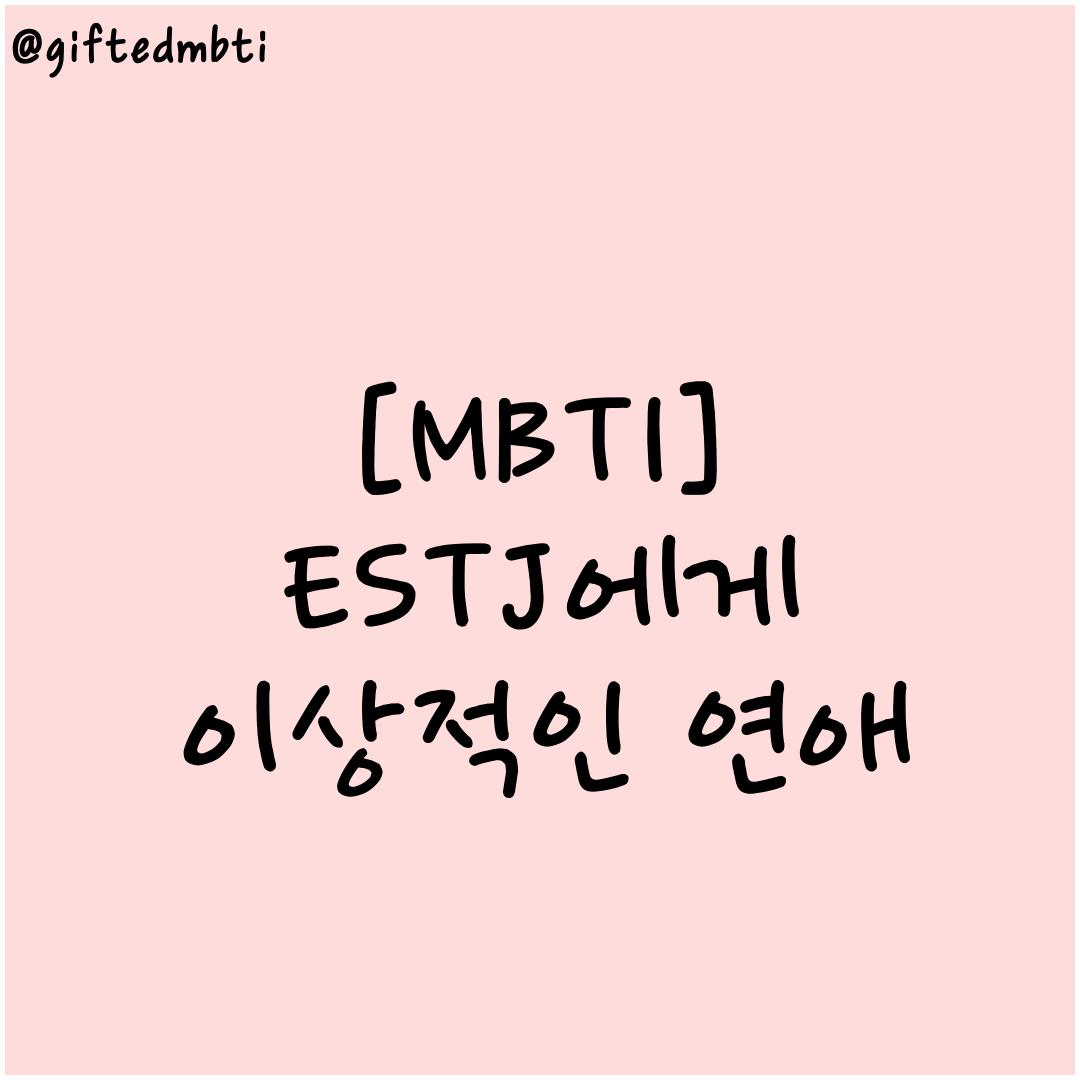
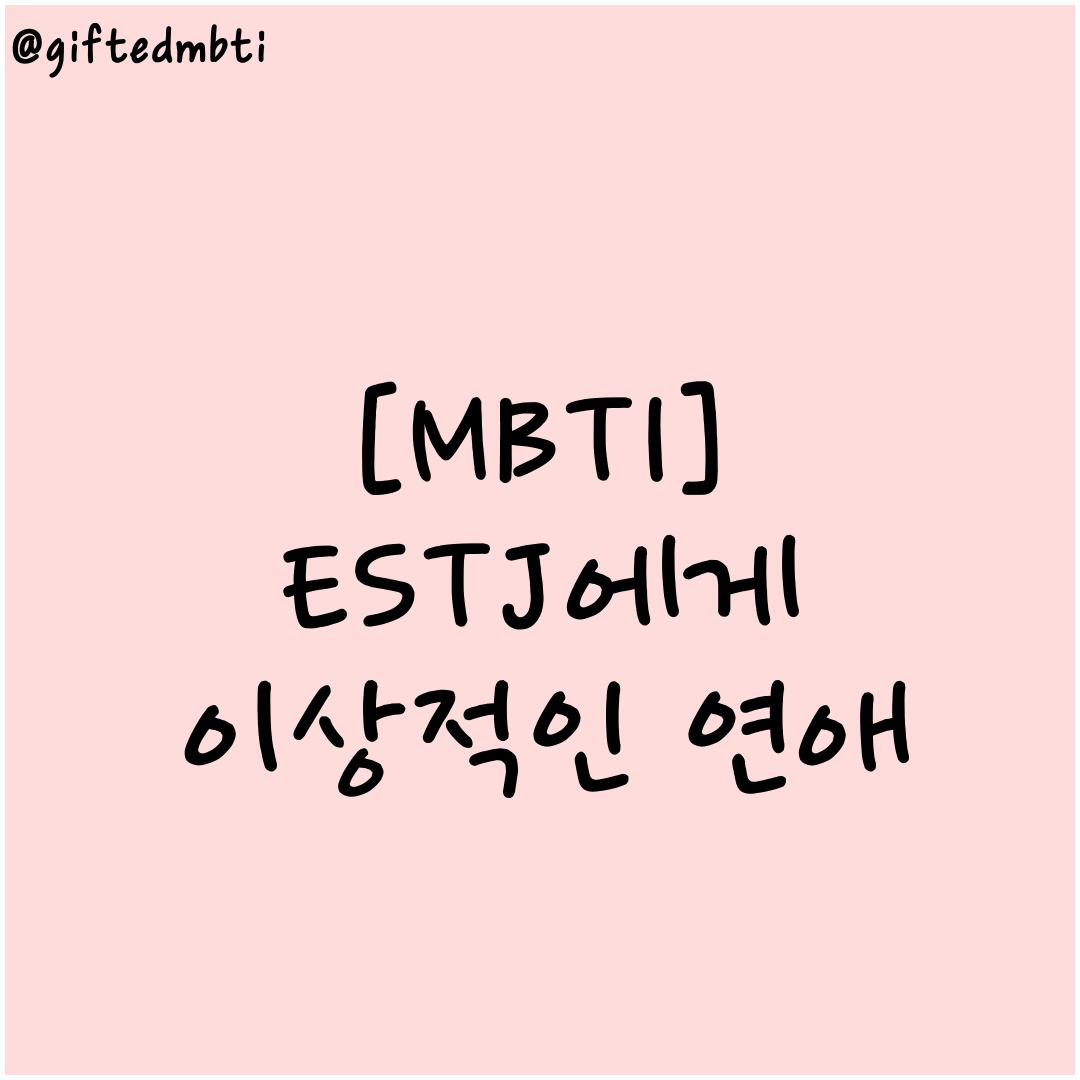
디자인 및 워터마크 추가

diff --git a/generateCardnewsContentImageByContent.py b/generateCardnewsContentImageByContent.py
@@ -1,10 +1,10 @@
 import os
 from bs4 import BeautifulSoup
 from PIL import Image, ImageDraw, ImageFont
-from config import BASE_FONT_SIZE, FONT_PATH, IMAGE_SIZE, BACKGROUND_COLOR, TEXT_COLOR, BORDER_COLOR, BORDER_WIDTH
+from config import BASE_FONT_SIZE, FONT_PATH, IMAGE_SIZE, BACKGROUND_COLOR, TEXT_COLOR, BORDER_COLOR, BORDER_WIDTH,TITLE_BLOG_NAME_FONT_SIZE
 from remove_emoji import remove_emoji
 
-def generateCardnewsContentImageByContent(html_content, ImageName, save_path):
+def generateCardnewsContentImageByContent(html_content, ImageName, save_path,BlogMetaInfo ):
     print("-----------------------------------------------------------------------------------")
     print(f"current card content : {html_content}")
     base_font_size = BASE_FONT_SIZE
@@ -16,6 +16,17 @@ def generateCardnewsContentImageByContent(html_content, ImageName, save_path):
         image_width, image_height = IMAGE_SIZE
         image = Image.new('RGB', (image_width, image_height), BACKGROUND_COLOR)
         draw = ImageDraw.Draw(image)
+
+        # 추가된 부분: 블로그 이름 폰트 설정
+        blog_name = BlogMetaInfo['site_name']
+        blogname_font_size = TITLE_BLOG_NAME_FONT_SIZE
+        blog_font = ImageFont.truetype(FONT_PATH, blogname_font_size)
+
+        # 추가된 부분: 블로그 이름 텍스트 그리기
+        blog_text_x = 10
+        blog_text_y = 10
+        draw.text((blog_text_x, blog_text_y), f"@{blog_name}", font=blog_font, fill=TEXT_COLOR)
+
 
         # 사용할 폰트 설정
         
@@ -133,4 +144,4 @@ if __name__ == "__main__":
 <p data-ke-size="size16">INFJ들은 상대방과 공통의 이상과 목표를 공유하는 것을 중요하게 생각해요. 서로가 비슷한 가치관과 이상을 가지고 있다면, 더욱 깊고 의미 있는 관계를 형성할 수 있을거에요.</p>'''
 
     # 이미지 생성 및 저장
-    generateCardnewsContentImageByContent(html_content, 'output_image',"/Users/usere/blogimageautomation/CardNewsAutomation/[MBTI] INTP에게 이상적인 연애 ")
+    generateCardnewsContentImageByContent(html_content, 'output_image',"/Users/usere/blogimageautomation/CardNewsAutomation/[MBTI] INTP에게 이상적인 연애 ",{'site_name': 'giftedmbti', 'title': '[MBTI] INTJ는 왜 그럴까? 😎'})

diff --git a/createTitleCardByInfo.py b/createTitleCardByInfo.py
@@ -2,10 +2,8 @@ from PIL import Image, ImageDraw, ImageFont
 import os
 
 from remove_emoji import remove_emoji
-from config import IMAGE_SIZE, FONT_PATH, TEXT_COLOR, BORDER_COLOR, BORDER_WIDTH, BACKGROUND_COLOR, TITLE_BLOG_NAME_FONT_SIZE
+from config import BORDER_COLOR, BORDER_WIDTH, IMAGE_SIZE, FONT_PATH, TEXT_COLOR, BACKGROUND_COLOR, TITLE_BLOG_NAME_FONT_SIZE
 from sanitize_filename import sanitize_filename
-
-
 
 def calculate_font_size(font_path, text, max_size, min_size):
     font_size = max_size
@@ -28,11 +26,13 @@ def createTitleCardByInfo(BlogMetaInfo):
     min_font_size = 70
     max_font_size = 150
     text_color = TEXT_COLOR
-    border_color = BORDER_COLOR
-    border_width = BORDER_WIDTH
 
     # 블로그 이름과 글의 제목
     blogname_font_size = TITLE_BLOG_NAME_FONT_SIZE
+
+    # 새로운 값 추가: 테두리 색상 및 너비
+    border_color = BORDER_COLOR
+    border_width = BORDER_WIDTH  # Change this value to adjust the border width
 
     # 이미지 생성
     image = Image.new("RGB", size, background_color)
@@ -73,7 +73,8 @@ def createTitleCardByInfo(BlogMetaInfo):
     draw.text((blog_text_x, blog_text_y), f"@{blog_name}", font=blog_font, fill=text_color)
 
     # 테두리 그리기
-    draw.rectangle((0, 0, size[0] - 1, size[1] - 1), outline=border_color, width=border_width)
+    border_rect = [(0, 0), (size[0] - 1, size[1] - 1)]
+    draw.rectangle(border_rect, outline=border_color, width=border_width)
 
     # 이미지 저장 (as JPG)
     post_title_sanitized = sanitize_filename(post_title)  # 파일 이름 정제

diff --git a/generateCardnewsContentImagesByUrl.py b/generateCardnewsContentImagesByUrl.py
@@ -19,7 +19,7 @@ def generateCardnewsContentImages(blog_url):
     
     for content in dividedContents:
         ImageName = f"{post_title}_{ImageCount}"
-        generateCardnewsContentImageByContent(content,ImageName,save_path)
+        generateCardnewsContentImageByContent(content,ImageName,save_path,BlogMetaInfo)
         ImageCount = ImageCount + 1 
 
 

diff --git a/config.py b/config.py
@@ -19,8 +19,8 @@ FONT_PATH = os.path.join(bundle_dir, 'THE소녀감성.ttf')
 IMAGE_SIZE = (1080, 1080)  # Instagram card news size
 BACKGROUND_COLOR = (255, 220, 220)  # 연한 핑크색
 TEXT_COLOR = (0, 0, 0)
-BORDER_COLOR = (255, 255, 255)
-BORDER_WIDTH = 5
+BORDER_COLOR = (0, 0, 0)
+BORDER_WIDTH = 10
 
 # TITLE_CONSTANT
 TITLE_BLOG_NAME_FONT_SIZE = 65

diff --git a/main.py b/main.py
@@ -47,6 +47,6 @@ def confirm_and_display(folder_name):
 
 
 if __name__ == "__main__":
-    test_url = "https://giftedmbti.tistory.com/170"
+    test_url = "https://giftedmbti.tistory.com/151"
     folder_name = generate_images(test_url)
     confirm_and_display(folder_name)
